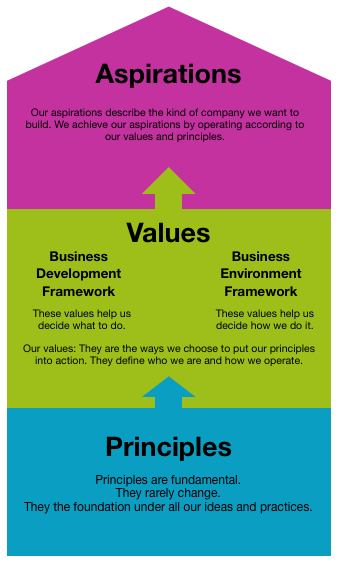
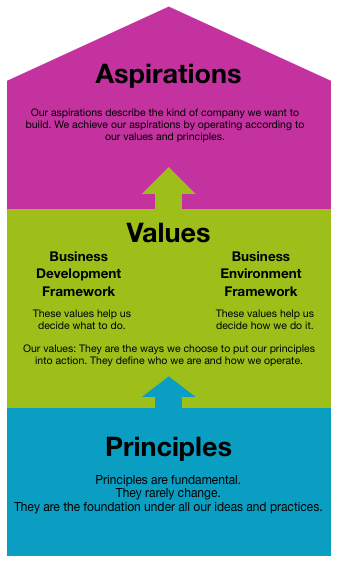
Latest

Changed region(s): [[0.0593, 0.8757, 0.9496, 0.9059]]

diff --git a/aspirations/index.html b/aspirations/index.html
@@ -108,6 +108,7 @@
             <div class="col-md-9" role="main">
 
 <h1 id="aspirations">Aspirations</h1>
+<p><strong> Our aspirations describe the kind of company we want to build. We achieve our aspirations by operating according to our values and principles. </strong></p>
 <h2 id="primaque-anaphen-animal">Primaque Anaphen animal</h2>
 <p>Lorem markdownum verba tam et plausus ferunt, et orbi. Sed per feruntur per
 nostro iram fraternaque <strong>adit verbis aranea</strong> in ferrea

diff --git a/principles/index.html b/principles/index.html
@@ -106,6 +106,7 @@
             <div class="col-md-9" role="main">
 
 <h1 id="principles">Principles</h1>
+<p><strong> Principles are fundamental. They rarely change. They are the foundation under all our ideas and practices. </strong></p>
 <h2 id="orithyiae-inhibe">Orithyiae inhibe</h2>
 <p>Lorem markdownum aetas quae velamine ut quia, <a href="http://gifctrl.com/">ministerio</a>
 materia. Tradendum Virbius in Antiphates curae. Ali manus moras, si fugae de
